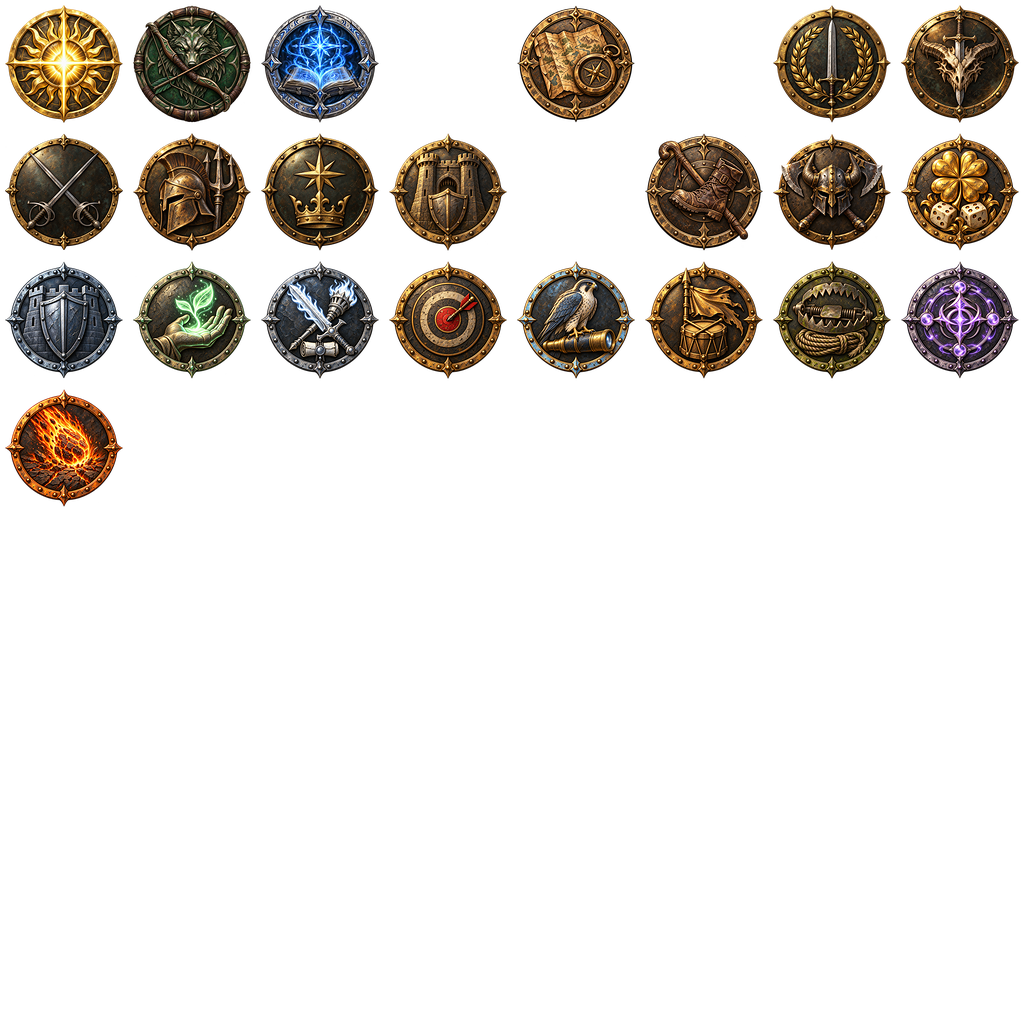
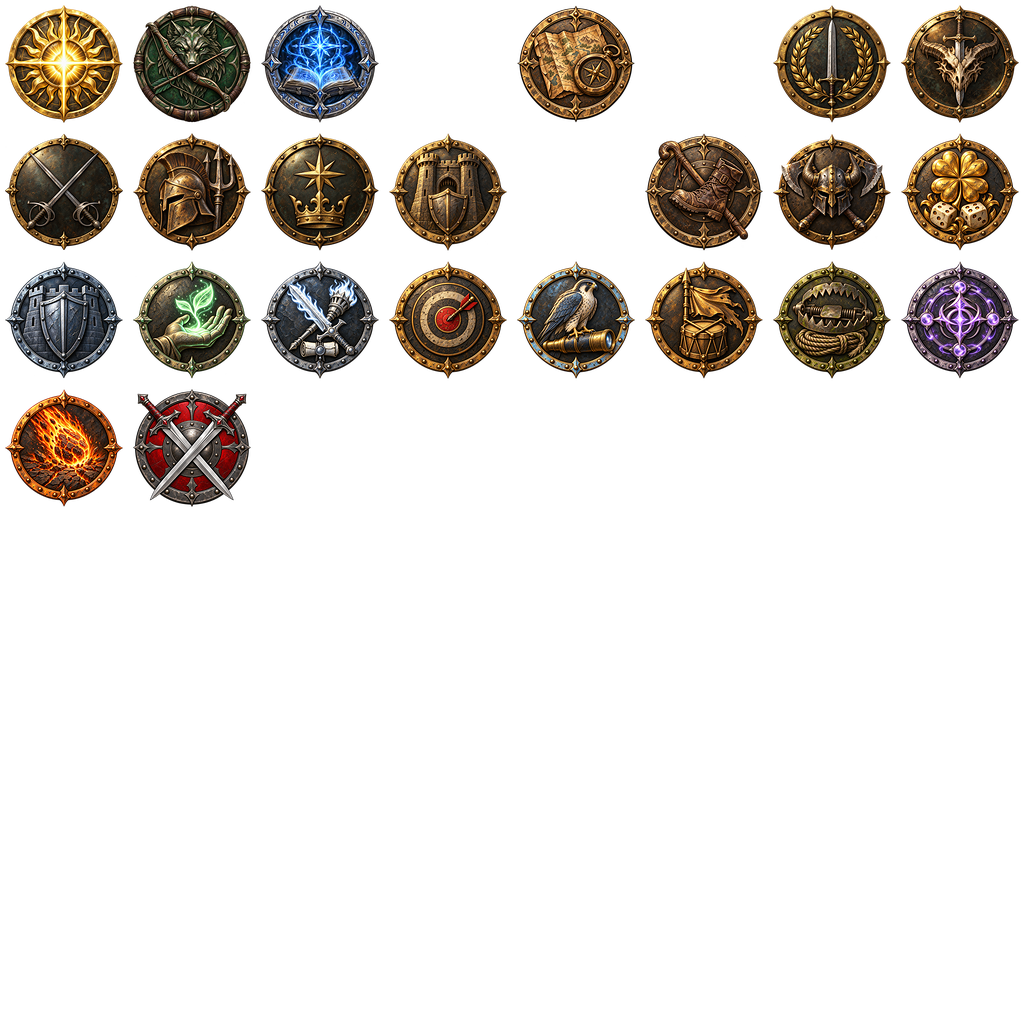
Grafiki: Wojownik (herb, portret), Grimrok (portret, loch), 3 efekty, mapa Legowiska; nowa ikona Krwawienia zablokowana; importer UI pomija klucze wycofanych umiejętności

Changed region(s): [[0.125, 0.375, 0.25, 0.5]]

diff --git a/tools/icons/import_ui.py b/tools/icons/import_ui.py
@@ -377,8 +377,14 @@ def map_frame(root, map_id, report):
 
 # ------------------------------------------------------------------------------------------------ output files
 
-def render_registry(state):
+def render_registry(state, ids=None):
     cells, singles, frames = state["cells"], state["singles"], state["frames"]
+    if ids is not None:
+        # a cell keeps its place in the atlas when its key leaves the game (cells never move), but the registry only
+        # lists keys the game can still ask for (W10: skills retired in S142 kept their cells)
+        valid = {k for ks in game_keys(ids).values() for k in ks}
+        cells = {k: v for k, v in cells.items() if k in valid}
+        singles = {k: v for k, v in singles.items() if k in valid}
     lines = [
         "--!strict",
         "-- GENERATED by tools/icons/import_ui.py (S119), do not edit. Interface pictures of the owner's Graphics folder:",
@@ -731,7 +737,7 @@ def run(root, src, ids, dry_run=False, prune=False, key_color=None, only=None, q
         if os.path.exists(p):
             os.remove(p)
     save_json(state_path, state)
-    text = render_registry(state)
+    text = render_registry(state, ids)
     old_text = open(reg_path, encoding="utf-8").read() if os.path.exists(reg_path) else None
     if state != old_state or old_text is None or "GENERATED by tools/icons/import_ui.py" not in old_text:
         atlas_index.write(reg_path, text)
